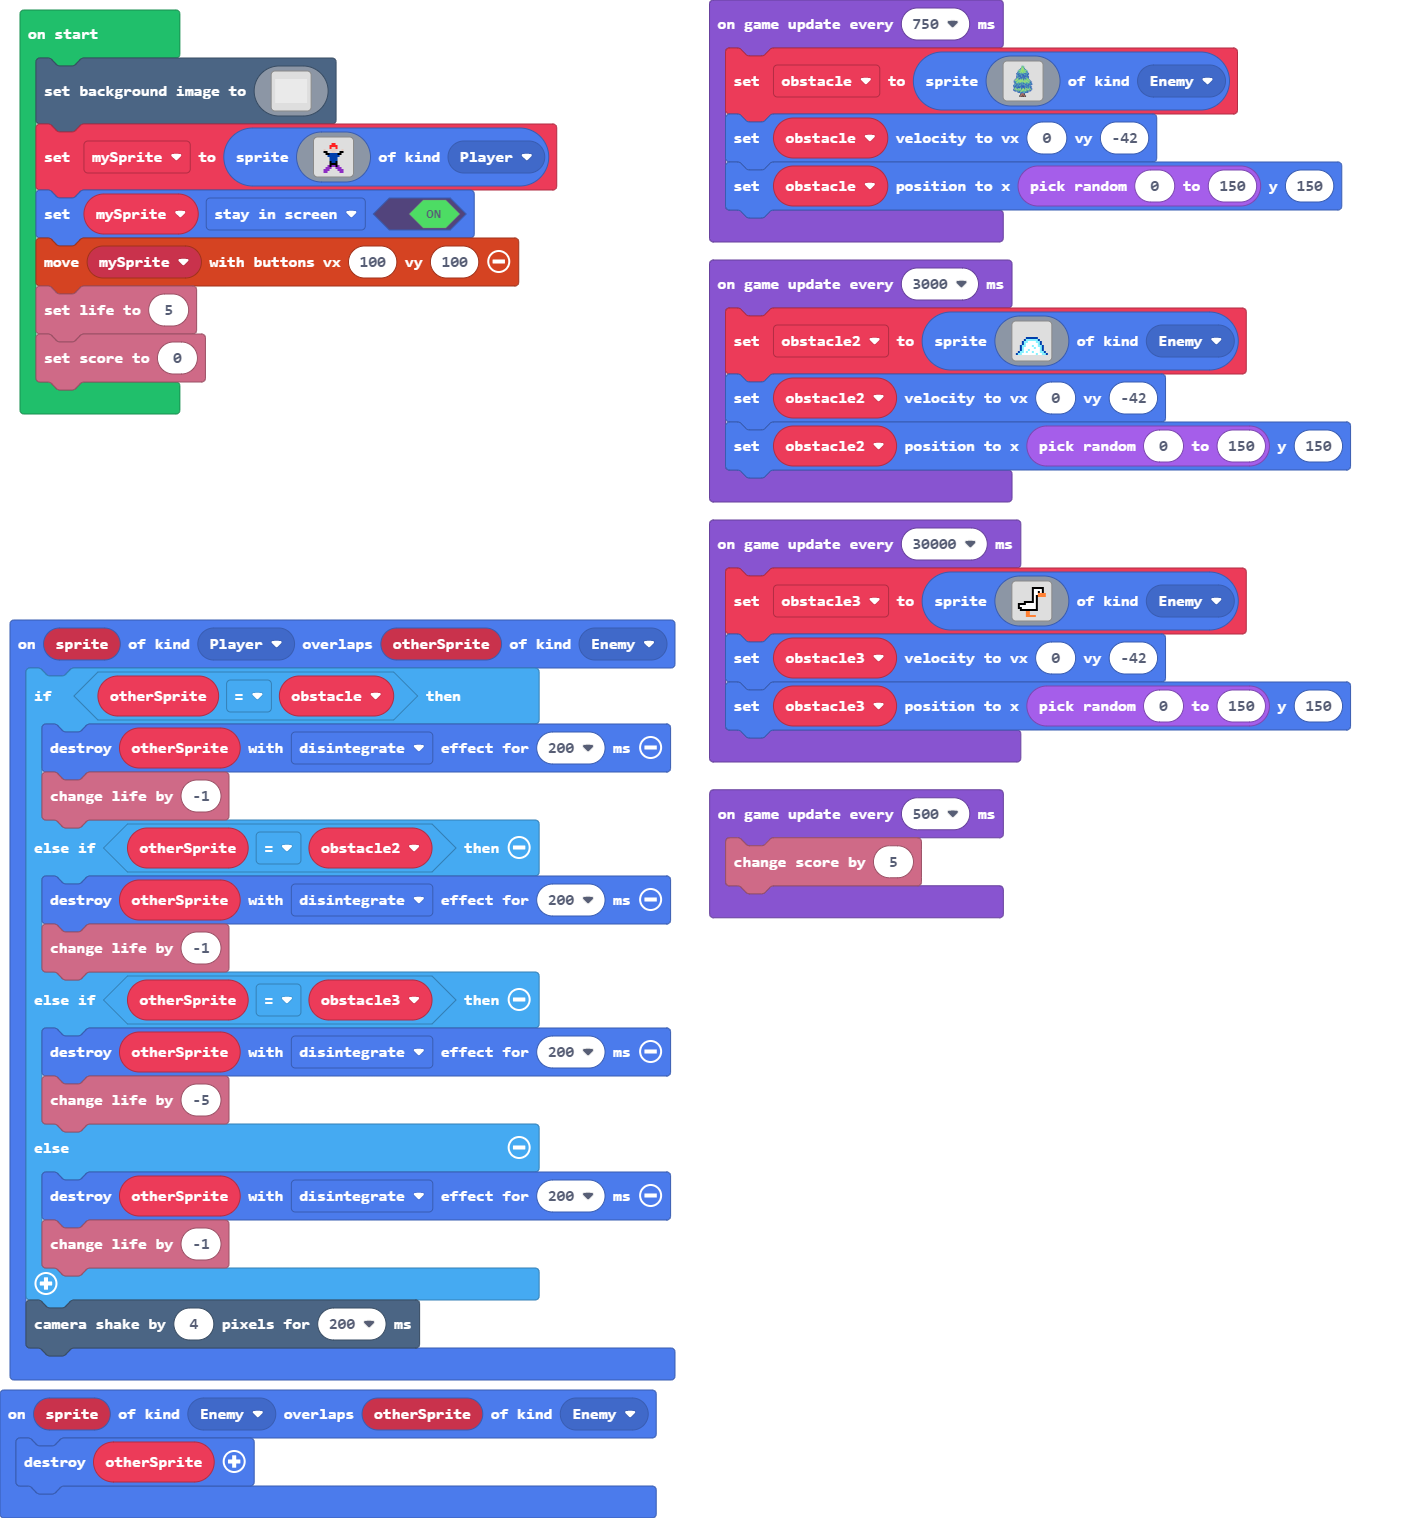
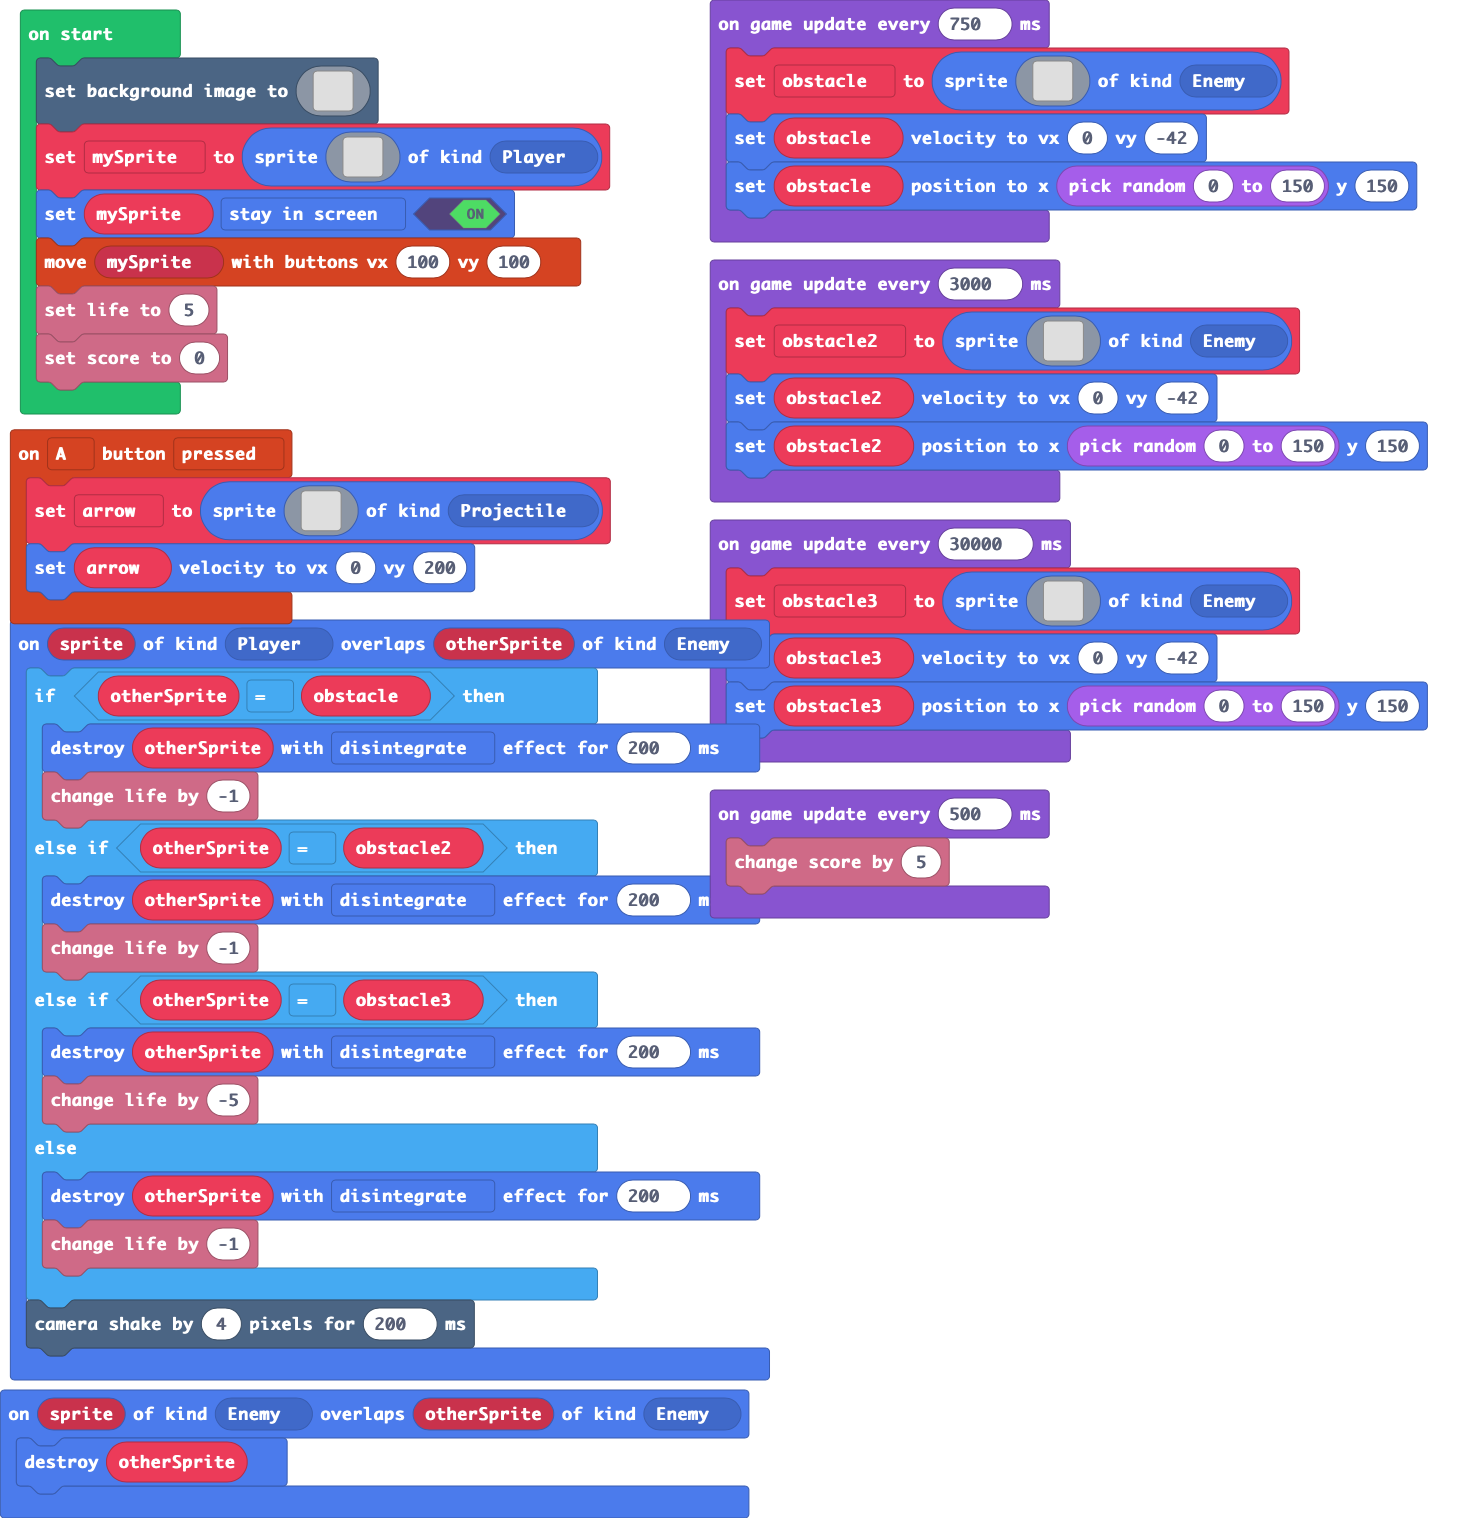
Update main.blocks, main.ts

diff --git a/main.ts b/main.ts
@@ -3,6 +3,27 @@ namespace SpriteKind {
     export const Tree = SpriteKind.create()
     export const goose = SpriteKind.create()
 }
+controller.A.onEvent(ControllerButtonEvent.Pressed, function () {
+    arrow = sprites.create(img`
+        . . . . . . . . . . . . . . . . 
+        . . . . . . . . . . . . . . . . 
+        . . . . . . . . . . . . . . . . 
+        . . . . . . . . . . . . . . . . 
+        . . . . . . . . . . . . . . . . 
+        . . . . . . . f . . . . . . . . 
+        . . . . . . . f . . . . . . . . 
+        . . . . . . . f . . . . . . . . 
+        . . . . . . f f f . . . . . . . 
+        . . . . . . . f . . . . . . . . 
+        . . . . . . . . . . . . . . . . 
+        . . . . . . . . . . . . . . . . 
+        . . . . . . . . . . . . . . . . 
+        . . . . . . . . . . . . . . . . 
+        . . . . . . . . . . . . . . . . 
+        . . . . . . . . . . . . . . . . 
+        `, SpriteKind.Projectile)
+    arrow.setVelocity(0, 200)
+})
 sprites.onOverlap(SpriteKind.Enemy, SpriteKind.Enemy, function (sprite, otherSprite) {
     otherSprite.destroy()
 })
@@ -25,6 +46,7 @@ sprites.onOverlap(SpriteKind.Player, SpriteKind.Enemy, function (sprite, otherSp
 let obstacle3: Sprite = null
 let obstacle2: Sprite = null
 let obstacle: Sprite = null
+let arrow: Sprite = null
 scene.setBackgroundImage(img`
     1111111111111111111111111111111111111111111111111111111111111111111111111111111111111111111111111111111111111111111111111111111111111111111111111111111111111111
     1111111111111111111111111111111111111111111111111111111111111111111111111111111111111111111111111111111111111111111111111111111111111111111111111111111111111111
